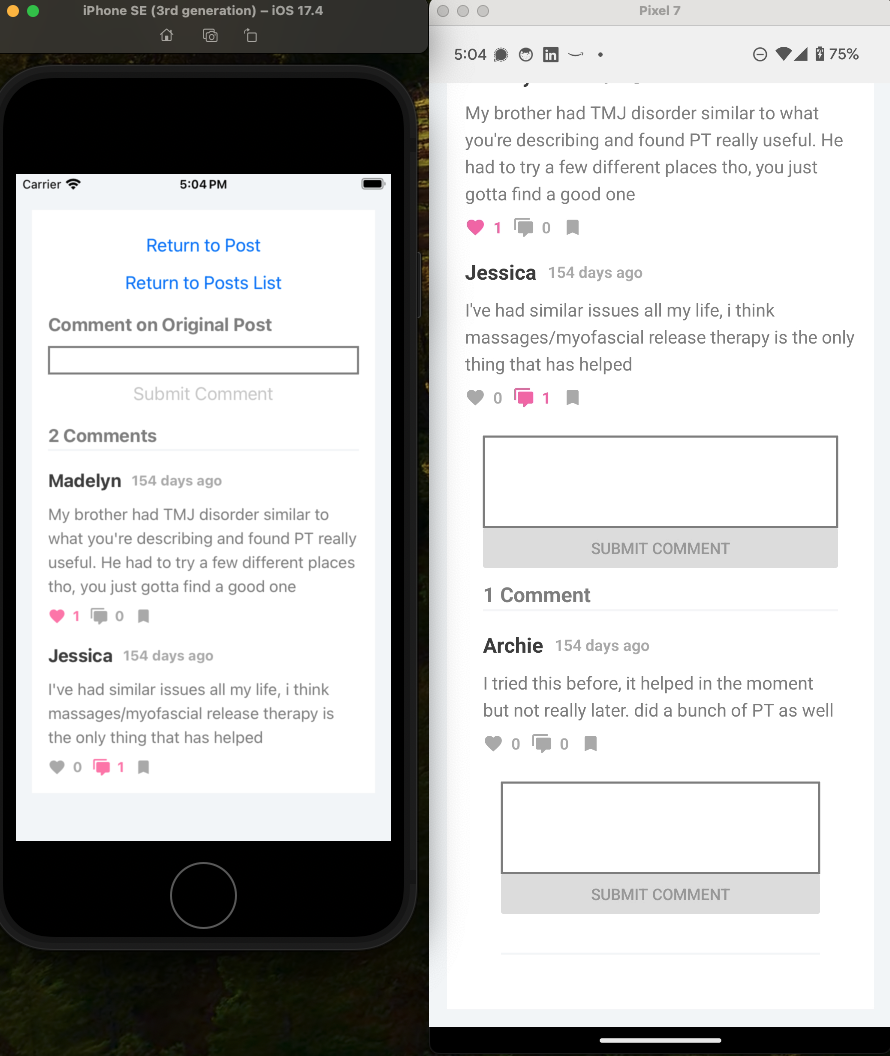
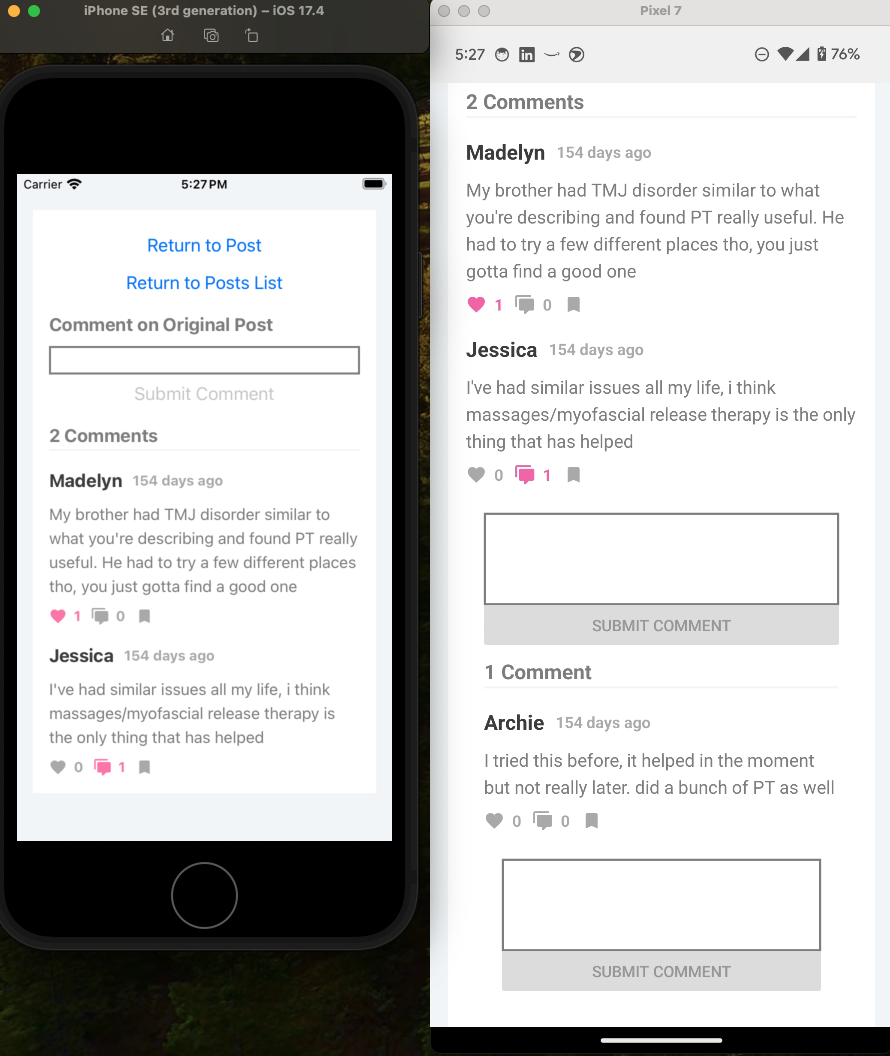
fixed styling of nested comments and added new image to readme

diff --git a/components/CommentsList.tsx b/components/CommentsList.tsx
@@ -8,7 +8,6 @@ import CommentListItem from './CommentListItem'
 import { Post, Comment } from '../types'
 import { editPost } from '@/utils'
 
-
 interface CommentsProps {
   post: Post
   handleReturnToList: () => void
@@ -115,7 +114,13 @@ export default function CommentsList({
 
   return (
     <>
-      <ThemedView style={styles.contentContainer}>
+      <ThemedView
+        style={{
+          paddingVertical: 16,
+          paddingLeft: 16,
+          paddingRight: parentId === null ? 16 : 0,
+        }}
+      >
         {parentId === null && (
           <>
             <Button onPress={handleReturnToPost} title='Return to Post' />
@@ -156,9 +161,10 @@ export default function CommentsList({
 }
 
 const styles = StyleSheet.create({
-  contentContainer: {
-    padding: 16,
-  },
+  // contentContainer: {
+  //   paddingVertical: 16,
+  //   paddingLeft: 16
+  // },
   commentOnOpText: {
     marginTop: 10,
     color: 'rgb(136, 136, 136)',
